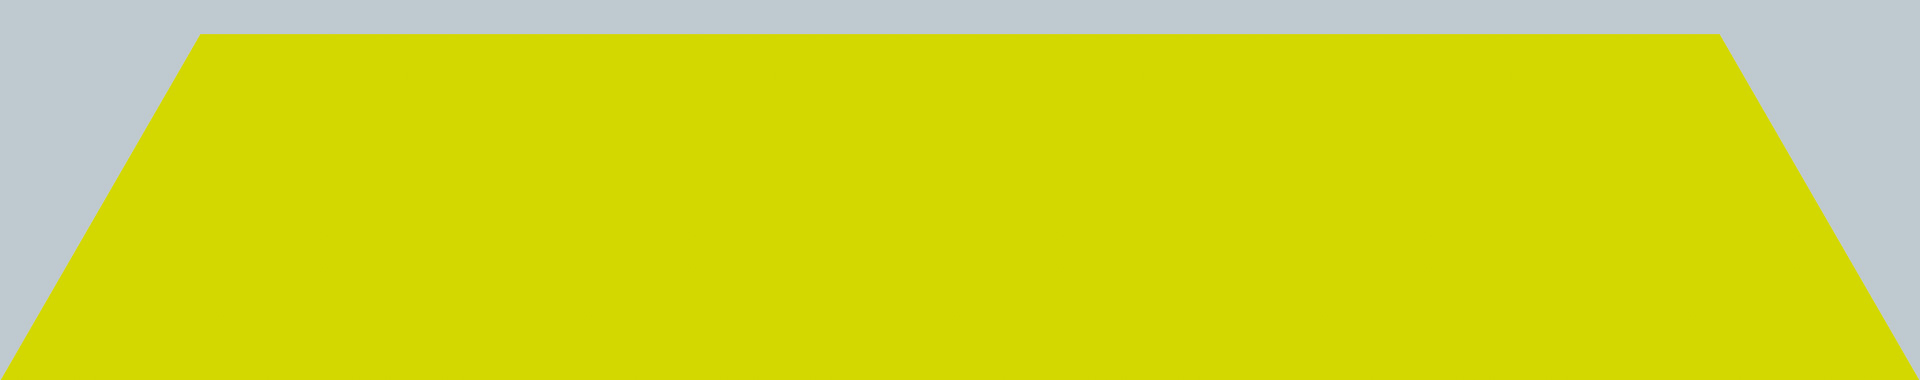
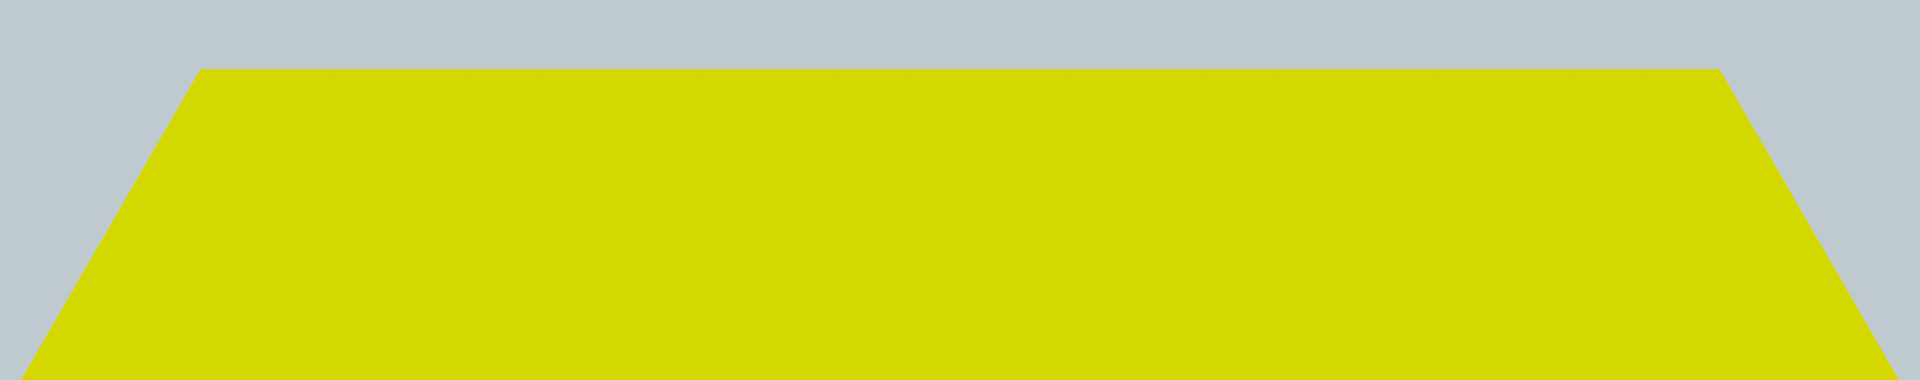
completes hexagon section

Changed region(s): [[0.0, 0.0868, 1.0, 1.0]]

diff --git a/website/index.html b/website/index.html
@@ -121,18 +121,54 @@
         </div>
 
         <div class="hexagons section">
-            <div class="container">
-                <div class="row">
-                    <div class="col-sm-12">
+            <div class="skip">
+                <div class="container">
+                    <div class="row">
+                        <div class="col-sm-12">
 
-                        <div class="placeholder">
-                            <p>Will contain hexagons</p>
+                            <div class="placeholder">
+                                <p>Will contain hexagons</p>
+                            </div>
+
                         </div>
-
                     </div>
                 </div>
             </div>
         </div>
+
+
+        <div class="addendum section">
+            <div class="container">
+                <div class="row">
+                    <div class="col-sm-12">
+                        <div class="copy">
+                            <h2>Some Other Heading here</h2>
+                            <p>Lorem ipsum dolor sit amet, consectetur adipiscing elit. Praesent elementum urna metus. Donec elementu sent efficitur magna in nibh dapibus,
+                                vitae accumsan velit cursus. Integer ut porta eros. Aliquam vel libero tellus. Proin eu vestm est ligula, sent efficitur magna in nibh dapibus,
+                                vitae accumsan velit cursus. Integer ut porta eros. Aliquam vel libero tellus. Proin eu vest a venenatis nunc faucibus facilisis.</p>
+
+                            <p>Lakke nibh dapibus, vitae accumsan velit cursus. Integer ut porta eros.
+                                Aliquam vel libero tellus. Proin eu vestibulum n sent efficitur magna in nibh dapibus, vitae accumsan velit cursus. Integer ut porta eros.
+                                Aliquam vel libero tellus. Proin eu vestulla, vitae aliquam velit.</p>
+
+                            <p>Integer ut porta eros. Aliquam vel libero tellus. Proin eu vestm est ligula, sent efficitur magna in nibh dapibus,
+                                vitae accumsan velhicitur magna in nibh dapibus, vitae accumsan velit cursus. Integer ut porta eros.
+                                Aliquam vel libero tellus. Proin eu vestibulum n sent efficitur magna in nibh dapibus, vitae accumsan velit cursus. Integer ut porta eros.
+                                Aliquam vel libero tellus. Proin eu vestulla, vitae aliquam velit.</p>
+                            <p>Lorem ipsum dolor sit amet, consectetur adipiscing elit. Praesent elementum urna metus. Donec elementu sent efficitur magna in nibh dapibus,
+                                vitae accumsan velit cursus. Integer ut porta eros. Aliquam vel libero tellus. Proin eu vestm est ligula, sent efficitur magna in nibh dapibus,
+                                vitae accumsan velit cursus. Integer ut porta eros. Aliquam vel libero tellus. Proin eu vest a venenatis nunc faucibus facilisis.</p>
+
+                            <p>Proin eu vestibulumoin eu vestulla, vitae aliquam velit. n sent efficitur magna in nibh dapibus, vitae accumsan velit cursus. Integer ut porta eros.
+                                Aliquam vel walkin fe orth ded adlibero tellum.</p>
+                        </div>
+                    </div>
+                </div>
+            </div>
+        </div>
+
+
+
 
     </div>
 

diff --git a/source/scss/maxandaegle.scss b/source/scss/maxandaegle.scss
@@ -39,7 +39,6 @@ body {
     }
 
     @media (min-width: $breakpoint2){
-
         height: 320px;
         color: #ffffff;
 
@@ -135,23 +134,31 @@ body {
     min-height: 1040px;
 
     @media (min-width: $breakpoint3){
-
         padding-top: 800px;
     }
 }
 
-
 .hexagons {
-    background: url("../images/bg-hexagons-section.jpg") top center no-repeat $brand-green-light;
-    margin-bottom: -40px;
+    background: url("../images/bg-hexagons-section.jpg") top center no-repeat $brand-yellow-strong;
 
     .placeholder {
-        text-align: center;
-        margin: 0 auto;
-        height: 400px;
+        //flex-direction: column;
+        display: flex;
+        align-content: center;
+        justify-content: center;
+        height: 600px;
+        padding-top: 200px;
         background: black;
         color: white;
     }
+
+    .skip {
+        background: url("../images/bg-closes-yellow.jpg") center bottom no-repeat;
+    }
+}
+
+.addendum {
+    background: url("../images/bg-addendum.jpg") center -60px no-repeat;
 }
 
 

diff --git a/website/css/maxandaegle.css b/website/css/maxandaegle.css
@@ -113,11 +113,17 @@ body {
       padding-top: 800px; } }
 
 .hexagons {
-  background: url("../images/bg-hexagons-section.jpg") top center no-repeat #c3d800;
-  margin-bottom: -40px; }
+  background: url("../images/bg-hexagons-section.jpg") top center no-repeat #d3d700; }
   .hexagons .placeholder {
-    text-align: center;
-    margin: 0 auto;
-    height: 400px;
+    display: flex;
+    align-content: center;
+    justify-content: center;
+    height: 600px;
+    padding-top: 200px;
     background: black;
     color: white; }
+  .hexagons .skip {
+    background: url("../images/bg-closes-yellow.jpg") center bottom no-repeat; }
+
+.addendum {
+  background: url("../images/bg-addendum.jpg") center -60px no-repeat; }

diff --git a/source/scss/_colours.scss b/source/scss/_colours.scss
@@ -9,6 +9,7 @@ $brand-green-dark:         #c2d100;
 $brand-green-light:        #c3d800;
 $brand-gray-light:         #eff3f4;
 $brand-gray-dark:          #bfcad0;
+$brand-yellow-strong:      #d3d700;
 
 
 
